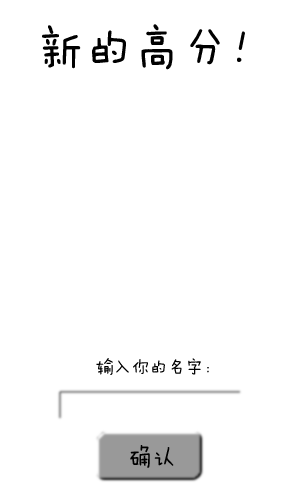
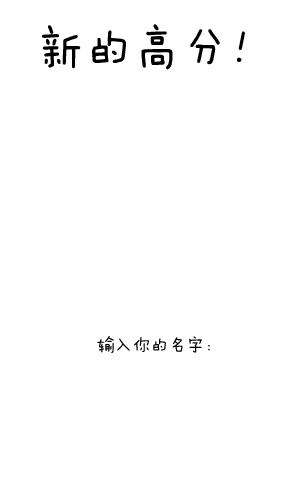
高分采用文件储存，加入读取文件和输入、输出文字的函数
屏幕上还不能显示文字，输入的内容也不会被写入文件，高分榜下按回车会延迟6秒返回游戏

diff --git a/source/topscore.c b/source/topscore.c
@@ -4,11 +4,84 @@
 #define SCOREBOARD_HEIGHT    500
 #define SCOREBOARD_X_BASE    ( SCREEN_WIDTH - SCOREBOARD_WIDTH ) / 2
 #define SCOREBOARD_Y_BASE    ( SCREEN_HEIGHT - SCOREBOARD_HEIGHT ) / 2
+#define LETTER_WIDTH         12
+#define LETTER_HEIGHT        24
 
-static SDL_Surface* scoreboard;
+static SDL_Surface *scoreboard;
+static SDL_Event event;
+static FILE *fp;
+
+void putstring( char str[], int xx, int yy , int len )
+{
+	/*str as string and x,y as location and len as length*/
+	int i, out_x; //letter_x, letter_y;
+	SDL_Surface *letters;
+	SDL_Rect position;
+	SDL_Rect letter;
+	
+	out_x = xx;	
+	letters = load_resource_for_RGBA( "letters.png" );
+	for ( i = 0 ; i < len ; i++ )
+	{
+        letter.x = ( ( (Uint16) str[i] ) % 8 ) * LETTER_WIDTH;
+	    letter.y = ( ( (Uint16) str[i] ) / 8 ) * LETTER_HEIGHT;
+	    letter.w = LETTER_WIDTH;
+	    letter.h = LETTER_HEIGHT;
+	    //letter = { letter_x, letter_y, LETTER_WIDTH, LETTER_HEIGHT };
+		//position = { out_x, yy, 0, 0 };
+		position.x = out_x;
+		position.y = yy;
+		SDL_BlitSurface( letters,
+			             &letter,
+			             scoreboard,
+			             &position );
+        out_x += LETTER_WIDTH;
+	}
+	SDL_Flip( scoreboard );
+}
+
+static void create_savedata( void )
+{
+	int i, j;
+	char name[10][16] = { "kuroneko\0       ",
+                          "Albert\0         ",
+                          "MYM\0            ",
+                          "WORLDELITE\0     ",
+                          "wwwwwwwwwwwwwww\0",
+                          "Zhang Youfu\0    ",
+                          "asdfghjkl\0      ",
+                          "1+1\0            ",
+                          "Q && M\0         ",
+                          "DotA\0           " };
+    int score[10] = { 80, 77, 75, 70, 66, 60, 55, 44, 30, 0 };
+	fp = fopen( "savedata.sav", "wb+" );
+	for( i = 0; i < 10; i++ ){
+		for( j = 0; j < 16; j++ )
+		    putc( name[i][j], fp );
+        fprintf( fp, "%d\n", score[i] );
+	}
+	fclose( fp );
+}
+
+static void open_savedata( void )
+{
+	fp = fopen( "savedata.sav", "rb" );
+	if ( fp == NULL ){
+		create_savedata( );
+		fp = fopen( "savedata.sav", "rb" );
+	}
+}
 
 bool is_top_score( void )
 {
+
+	
+	open_savedata( );
+
+    /* judge if is topscore */
+    
+    fclose( fp );
+	
 	return true;
 }
 
@@ -20,35 +93,83 @@ static void scorewall_load( void )
 			         NULL,
 			         scoreboard,
 			         NULL );
+	SDL_FreeSurface( scorewall );
+    //SDL_Flip( scoreboard );
 }
 
-static void button_load( void )
+static void button_load( int state )
 {
-	SDL_Rect position = { 100, 410, 0, 0 };
+	SDL_Rect position = { 100, 420, 0, 0 };
 	SDL_Surface* button;
-    button = load_resource_for_RGBA( "button0.png" );
+    /*switch( state );
+	{
+	    case 0: button = load_resource_for_RGBA( "button0.png" ); break;
+	    case 1: button = load_resource_for_RGBA( "button1.png" ); break;
+	}*/
+	if ( state == 0 ) button = load_resource_for_RGBA( "button0.png" );
+	if ( state == 1 ) button = load_resource_for_RGBA( "button1.png" );
 	SDL_BlitSurface( button,
 			         NULL,
 			         scoreboard,
 			         &position );
+    SDL_FreeSurface( button );
+	//SDL_Flip( scoreboard );
 }
 
-static void inputbox_load( void )
+static void inputbox_init( void )
 {
-	SDL_Rect position = { 50, 350, 0, 0 };
+	SDL_Rect position = { 50, 360, 0, 0 };
 	SDL_Surface* inputbox;
 	inputbox = load_resource_for_RGBA( "inputbox.png" );
     SDL_BlitSurface( inputbox,
 			         NULL,
 			         scoreboard,
 			         &position );
+    SDL_FreeSurface( inputbox );
+    //SDL_Flip( scoreboard );
+}
+
+static void score_load( void )
+{
+	int i, j;
+	int score[10];
+	char name[10][16];
+	char num[2], scorestr[3];
+	
+	open_savedata( );
+	/*hiscore output*/
+	for( i = 0; i < 10; i++ ){
+		num[1] = '1' + i;
+		if ( num[1] > '9' ){
+			num[1] = num[i] - 10;
+			num[0] = '1';
+		} 
+		else num[0] = '0';
+		//putstring( num, x1, y[i], 2 );//rank output
+		
+		for( j = 0; j < 16; j++ )
+		    name[i][j] = fgetc( fp );
+        //putstring( name[i], x2, y[i], 16 );//name output
+        
+        fscanf( fp, "%d", &score[i] );
+        scorestr[0] = '0' + score[i] / 100;
+        if ( scorestr[0] == '0' ) scorestr[0] = '\0';
+        scorestr[1] = '0' + (score[i] / 10) % 10;
+        if ( scorestr[1] == '0' ) scorestr[1] = '\0';
+        scorestr[2] = '0' + score[i] % 10;
+        //putstring( scorestr, x3, y[i], 3 );//score output
+	}
+}
+
+static void namein( void )
+{
+
 }
 
 static void load( void )
 {
-	scorewall_load( );
-	button_load( );
-	inputbox_load( );
+
+	score_load( );
 }
 
 static void unload( void )
@@ -59,11 +180,9 @@ static void scoreboard_initialize( void )
 {
 	scoreboard = create_surface( SCOREBOARD_WIDTH, SCOREBOARD_HEIGHT, 32, SDL_HWSURFACE );
 	SDL_FillRect( scoreboard, NULL, TRANSPARENT_COLOR );
-	SDL_BlitSurface( scoreboard,
-			         NULL,
-			         screen,
-			         NULL );
-    SDL_Flip( screen );
+	scorewall_load( );
+	button_load( 0 );
+	inputbox_init( );
 }
 
 static SDL_Rect board_base = { SCOREBOARD_X_BASE, SCOREBOARD_Y_BASE, 0, 0 };
@@ -74,6 +193,7 @@ static void initialize( SDL_Surface *surface )
 	SDL_FillRect( surface, NULL, bgcolor );
 	scoreboard_initialize( );
 	SDL_BlitSurface( scoreboard, NULL, surface, &board_base );
+	SDL_Flip( surface );
 }
 
 static void finalize( void )
@@ -82,7 +202,73 @@ static void finalize( void )
 }
 
 static ViewDescriptor main_loop( void )
-{	
+{
+	char strin[16]; //string input
+	char chin; //char input
+	int len; //string length
+	int code; //key's unicode
+	int cursor_x, cursor_y; //cursor location x,y
+	bool cursor_over = false; //if cursor is over the button
+	bool entered = false; //if pressed RETURN or click OK
+	bool quit = false;
+	len = 0;
+
+	
+	SDL_EnableUNICODE( SDL_ENABLE );
+	while( !entered )
+	{
+		while( SDL_PollEvent( &event ) )
+	    {
+			if( event.type == SDL_KEYDOWN )
+	        {
+                if( event.key.keysym.sym == SDLK_RETURN )
+                {
+            	    inputbox_init( );
+            	    entered = true;
+                }    
+                else if( ( event.key.keysym.sym == SDLK_BACKSPACE ) && ( len != 0 ) )
+                    len--;
+                else if( len < 15 )
+                {
+                	code = event.key.keysym.unicode;
+                	if( ( code >= 0 ) && ( code <= 127 ) )
+                	{
+	                	chin = (char) code;
+    	                strin[len] = chin;
+        	            len++;
+	                }
+                }
+                strin[len] = '\0';
+                inputbox_init( );
+                putstring( strin, 54, 364, len ); 
+    	    }
+        	if( event.type == SDL_MOUSEMOTION )
+	    	{
+		    	cursor_x = event.motion.x;
+                cursor_y = event.motion.y;
+                if ( ( cursor_x >= 100 ) && ( cursor_x <= 200 ) && ( cursor_y >= 420 ) && ( cursor_y <= 470 ) )
+                    cursor_over = true;
+		    	else cursor_over = false;
+    		}
+	    	if( event.type == SDL_MOUSEBUTTONDOWN )
+            {
+        	    if ( cursor_over )
+    			{
+	    		    button_load( 1 );
+			        entered = true;
+			        inputbox_init( );
+    			}
+            }
+            if( event.type == SDL_MOUSEBUTTONUP )
+			{
+			    button_load( 0 );
+			    if ( entered ) inputbox_init( );
+			}
+    	}
+	}
+
+	delay( 1000 );
+    SDL_EnableUNICODE( SDL_DISABLE );
 	delay(5000);//waiting
 	return VIEW_DESCRIPTOR( GAME_VIEW, NO_EFFECT );
 }
